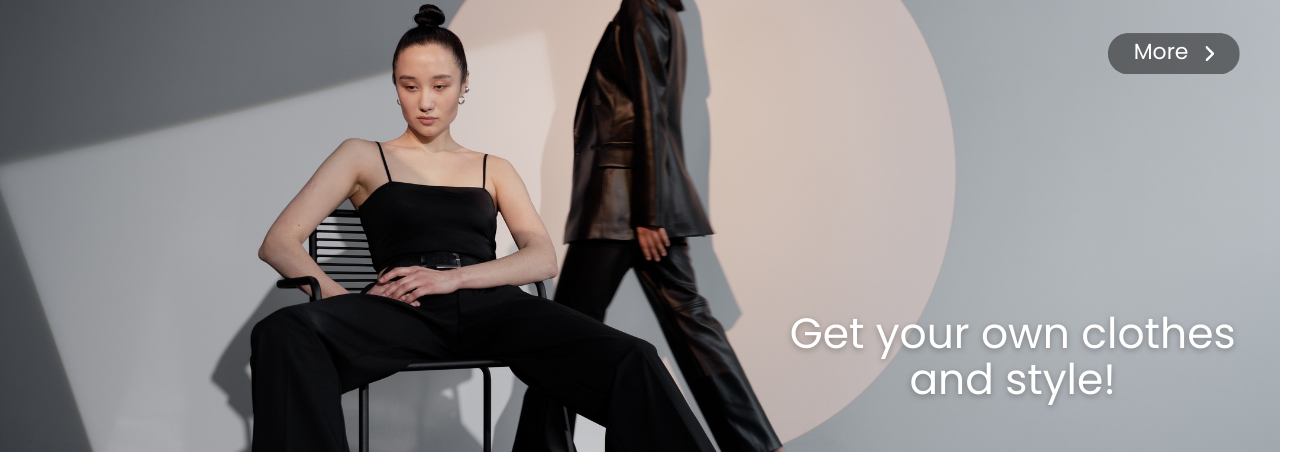
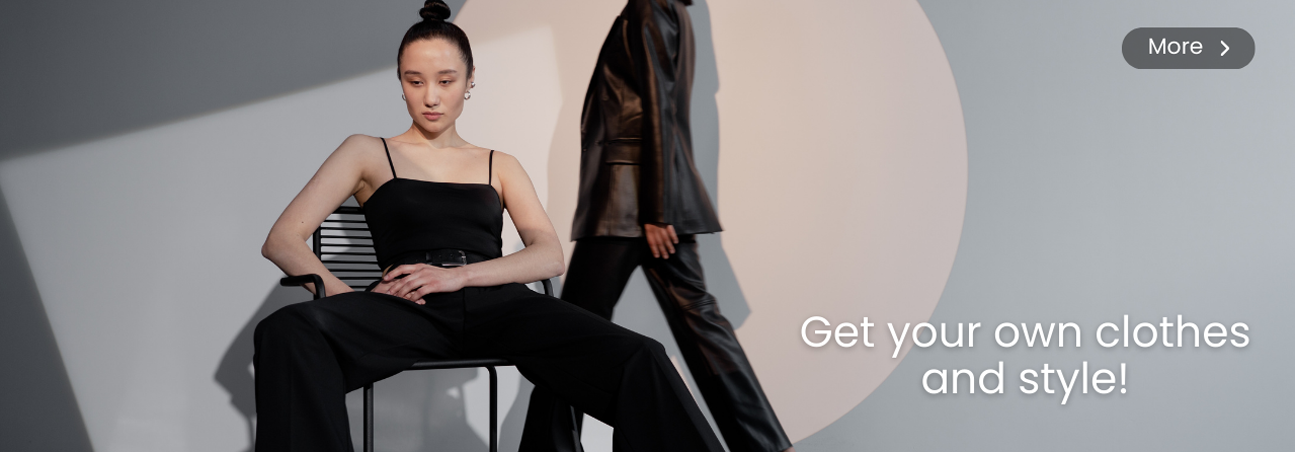
add: pagina contato

diff --git a/contato.html b/contato.html
@@ -1,0 +1,90 @@
+<!DOCTYPE html>
+<html lang="en">
+<head>
+    <meta charset="UTF-8">
+    <meta name="viewport" content="width=device-width, initial-scale=1.0">
+    <link rel="icon" href="./img/favicon.png">
+    <link rel="stylesheet" href="./style.css">
+    <title>Gadu Fashion E-Commerce - Contato</title>
+</head>
+<body>
+    <header class="header">
+        <div class="header__menu">
+            <img src="./img/logo.png" width="100px" alt="" class="header__logo">
+            <nav class="header__nav">
+                <ul class="header__list">
+                    <li class="header__menu_button"><a href="">Men</a></li>
+                    <li class="header__menu_button"><a href="">Woman</a></li>
+                    <li class="header__menu_button"><a href="">Kids</a></li>
+                    <li class="header__menu_button"><a href="">Shoes</a></li>
+                    <li class="header__menu_button"><a href="">See All</a></li>
+                </ul>
+            </nav>
+            <span class="header__box_busca">
+                <input type="search" name="buscar" placeholder="search here" class="header__search">
+                <a href=""><img src="./img/cart_icon.png" width="25px" height="25px" alt="" class="header__cart_icon"></a> 
+                <a href=""><img src="./img/user_icon.png" width="25px" height="25px" alt="" class="header__login_icon"></a>
+            </span>
+        </div>
+    </header>
+
+    <section class="contato">
+        <div class="form_contato">
+            <p class="titulo_contato">Entre em Contato Conosco</p>
+            <form action="">
+                <label for="nome">Nome:</label>
+                <input type="text" class="caixa_nome">
+                <br>
+                <label for="email">E-mail:</label>
+                <input type="email" class="caixa_email_contato">
+                <br>
+                <label for="mensagem">Sua Mensagem:</label>
+                <input type="text" class="caixa_msg">
+                <br>
+                <input type="submit">
+                <input type="reset">
+            </form>
+        </div>
+    </section>
+
+    <footer class="footer">
+        <div class="footer__cadastro_news">            
+            <p class="footer__texto_news">Se inscreva na nossa Newsletter e fique por dentro das novidades!</p>
+                <form action="">
+                    <input type="email" placeholder="e_mail" name="email" class="caixa_email">
+                    <button type="submit" class="botao_news"><strong>ENVIAR</strong></button>
+                </form>
+        </div>
+        <div class="menu_footer">
+            <span class="menu_principal">
+                <nav class="footer__nav">
+                    <ul class="footer__list">
+                        <li class="footer__menu_button"><a href="">Men</a></li>
+                        <li class="footer__menu_button"><a href="">Woman</a></li>
+                        <li class="footer__menu_button"><a href="">Kids</a></li>
+                        <li class="footer__menu_button"><a href="">Shoes</a></li>
+                        <li class="footer__menu_button"><a href="">See All</a></li>
+                    </ul>
+                </nav>
+            </span>
+            <span class="manu_secundario">
+                <nav class="footer__nav">
+                    <ul class="footer__list">
+                        <li class="footer__menu_button"><a href="">Termos de Uso</a></li>
+                        <li class="footer__menu_button"><a href="">LGPD</a></li>
+                        <li class="footer__menu_button"><a href="">Sobre Nós</a></li>
+                        <li class="footer__menu_button"><a href="">Devoluções</a></li>
+                        <li class="footer__menu_button"><a href="">Contato</a></li>
+                    </ul>
+                </nav>
+            </span>
+        </div>
+        <div class="rodape_info">
+            <p class="texto_info_rodape">
+                Gadu Fashon Ecommerce - Todos os Direitos Reservados - Proibiada a Reprodução sem Autorização - 2024
+            </p>
+        </div>
+    </footer>
+
+</body>
+</html>

diff --git a/style.css b/style.css
@@ -6,7 +6,8 @@
 
 .header {
     background-color: #ffffff;
-    position: fixed;
+    position: sticky;
+    top: 0;
     width: 100%;
     height: 100px;
 }
@@ -68,7 +69,7 @@
 }
 
 .banner_home img {
-    margin-top: 100px;
+    width: 100%;
 }
 
 .headline_vitrine {
@@ -107,14 +108,13 @@
 
 .footer {
     background-color: #000000;
-    width: 100%;
 }
 
 .footer__cadastro_news {
-    padding: 20px;
+    height: 80px;
     text-align: center;
     background-color: #2e2e2e;
-    height: auto;
+    padding: 10px;
 }
 
 .caixa_email {
@@ -129,7 +129,7 @@
 
 .footer__texto_news {
     color: #ffffff;
-    margin-bottom: 10px;
+    margin: 10px;
 }
 
 .menu_footer {
@@ -157,4 +157,37 @@
 
 .footer__list a:hover {
     color: rgb(107, 107, 107);
+}
+
+.rodape_info {
+    background-color: #000000;
+    height: 40px;
+    width: 100%;
+}
+
+.texto_info_rodape {
+    font-size: 12px;
+    color: #ffffff;
+    text-align: center;
+}
+.titulo_contato {
+    font-size: 40px;
+    text-align: center;
+    padding: 20px;
+}
+
+.caixa_nome {
+    width: 300px;
+}
+
+.caixa_email_contato {
+    width: 300px;
+}
+
+.caixa_msg {
+    width: 300px;
+    height: 300px;
+}
+.form_contato {
+    text-align: center;
 }

diff --git a/index.html b/index.html
@@ -28,8 +28,9 @@
         </div>
     </header>
 
+    <section>    
         <div class="banner_home">
-            <img src="./img/banner_home_1.png" alt="" width="100%">
+            <img src="./img/banner_home_1.png" alt="">
         </div>
 
         <div class="headline_vitrine">
@@ -43,7 +44,7 @@
             <img src="./img/2.png" alt="" class="imagem_vitrine">
             <img src="./img/3.png" alt="" class="imagem_vitrine">
         </div>
-
+    </section>
         
 
     <section class="text_home">
@@ -89,6 +90,12 @@
                 </nav>
             </span>
         </div>
+        <div class="rodape_info">
+            <p class="texto_info_rodape">
+                Gadu Fashon Ecommerce - Todos os Direitos Reservados - Proibiada a Reprodução sem Autorização - 2024
+            </p>
+        </div>
     </footer>
+
 </body>
 </html>
